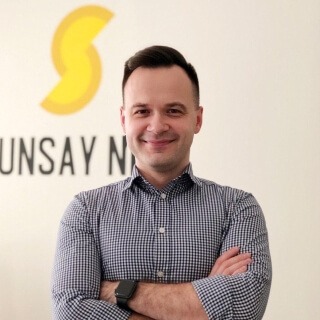
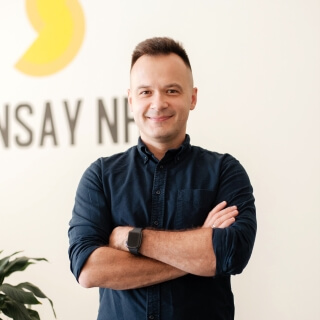
updated images

diff --git a/frontend/views/site/about.php b/frontend/views/site/about.php
@@ -161,15 +161,15 @@ $contacts = \backend\models\Contact::getContact();
 						<p><?= BaseController::getMessage('586') ?></p>
 					</div>
 				</div>
-				<!--<div class="slide">
+				<div class="slide">
 					<div class="img-block">
-						<img data-src="/img/about/worker/4.jpg" alt="<?/*= BaseController::getMessage('587') */?>">
+						<img data-src="/img/about/worker/4.jpg" alt="<?= BaseController::getMessage('587') ?>">
 					</div>
 					<div class="staff-info">
-						<strong><?/*= BaseController::getMessage('587') */?></strong>
-						<p><?/*= BaseController::getMessage('588') */?></p>
+						<strong><?= BaseController::getMessage('587') ?></strong>
+						<p><?= BaseController::getMessage('588') ?></p>
 					</div>
-				</div>-->
+				</div>
 				<div class="slide">
 					<div class="img-block">
 						<img data-src="/img/about/worker/5.jpg" alt="<?= BaseController::getMessage('589') ?>">
